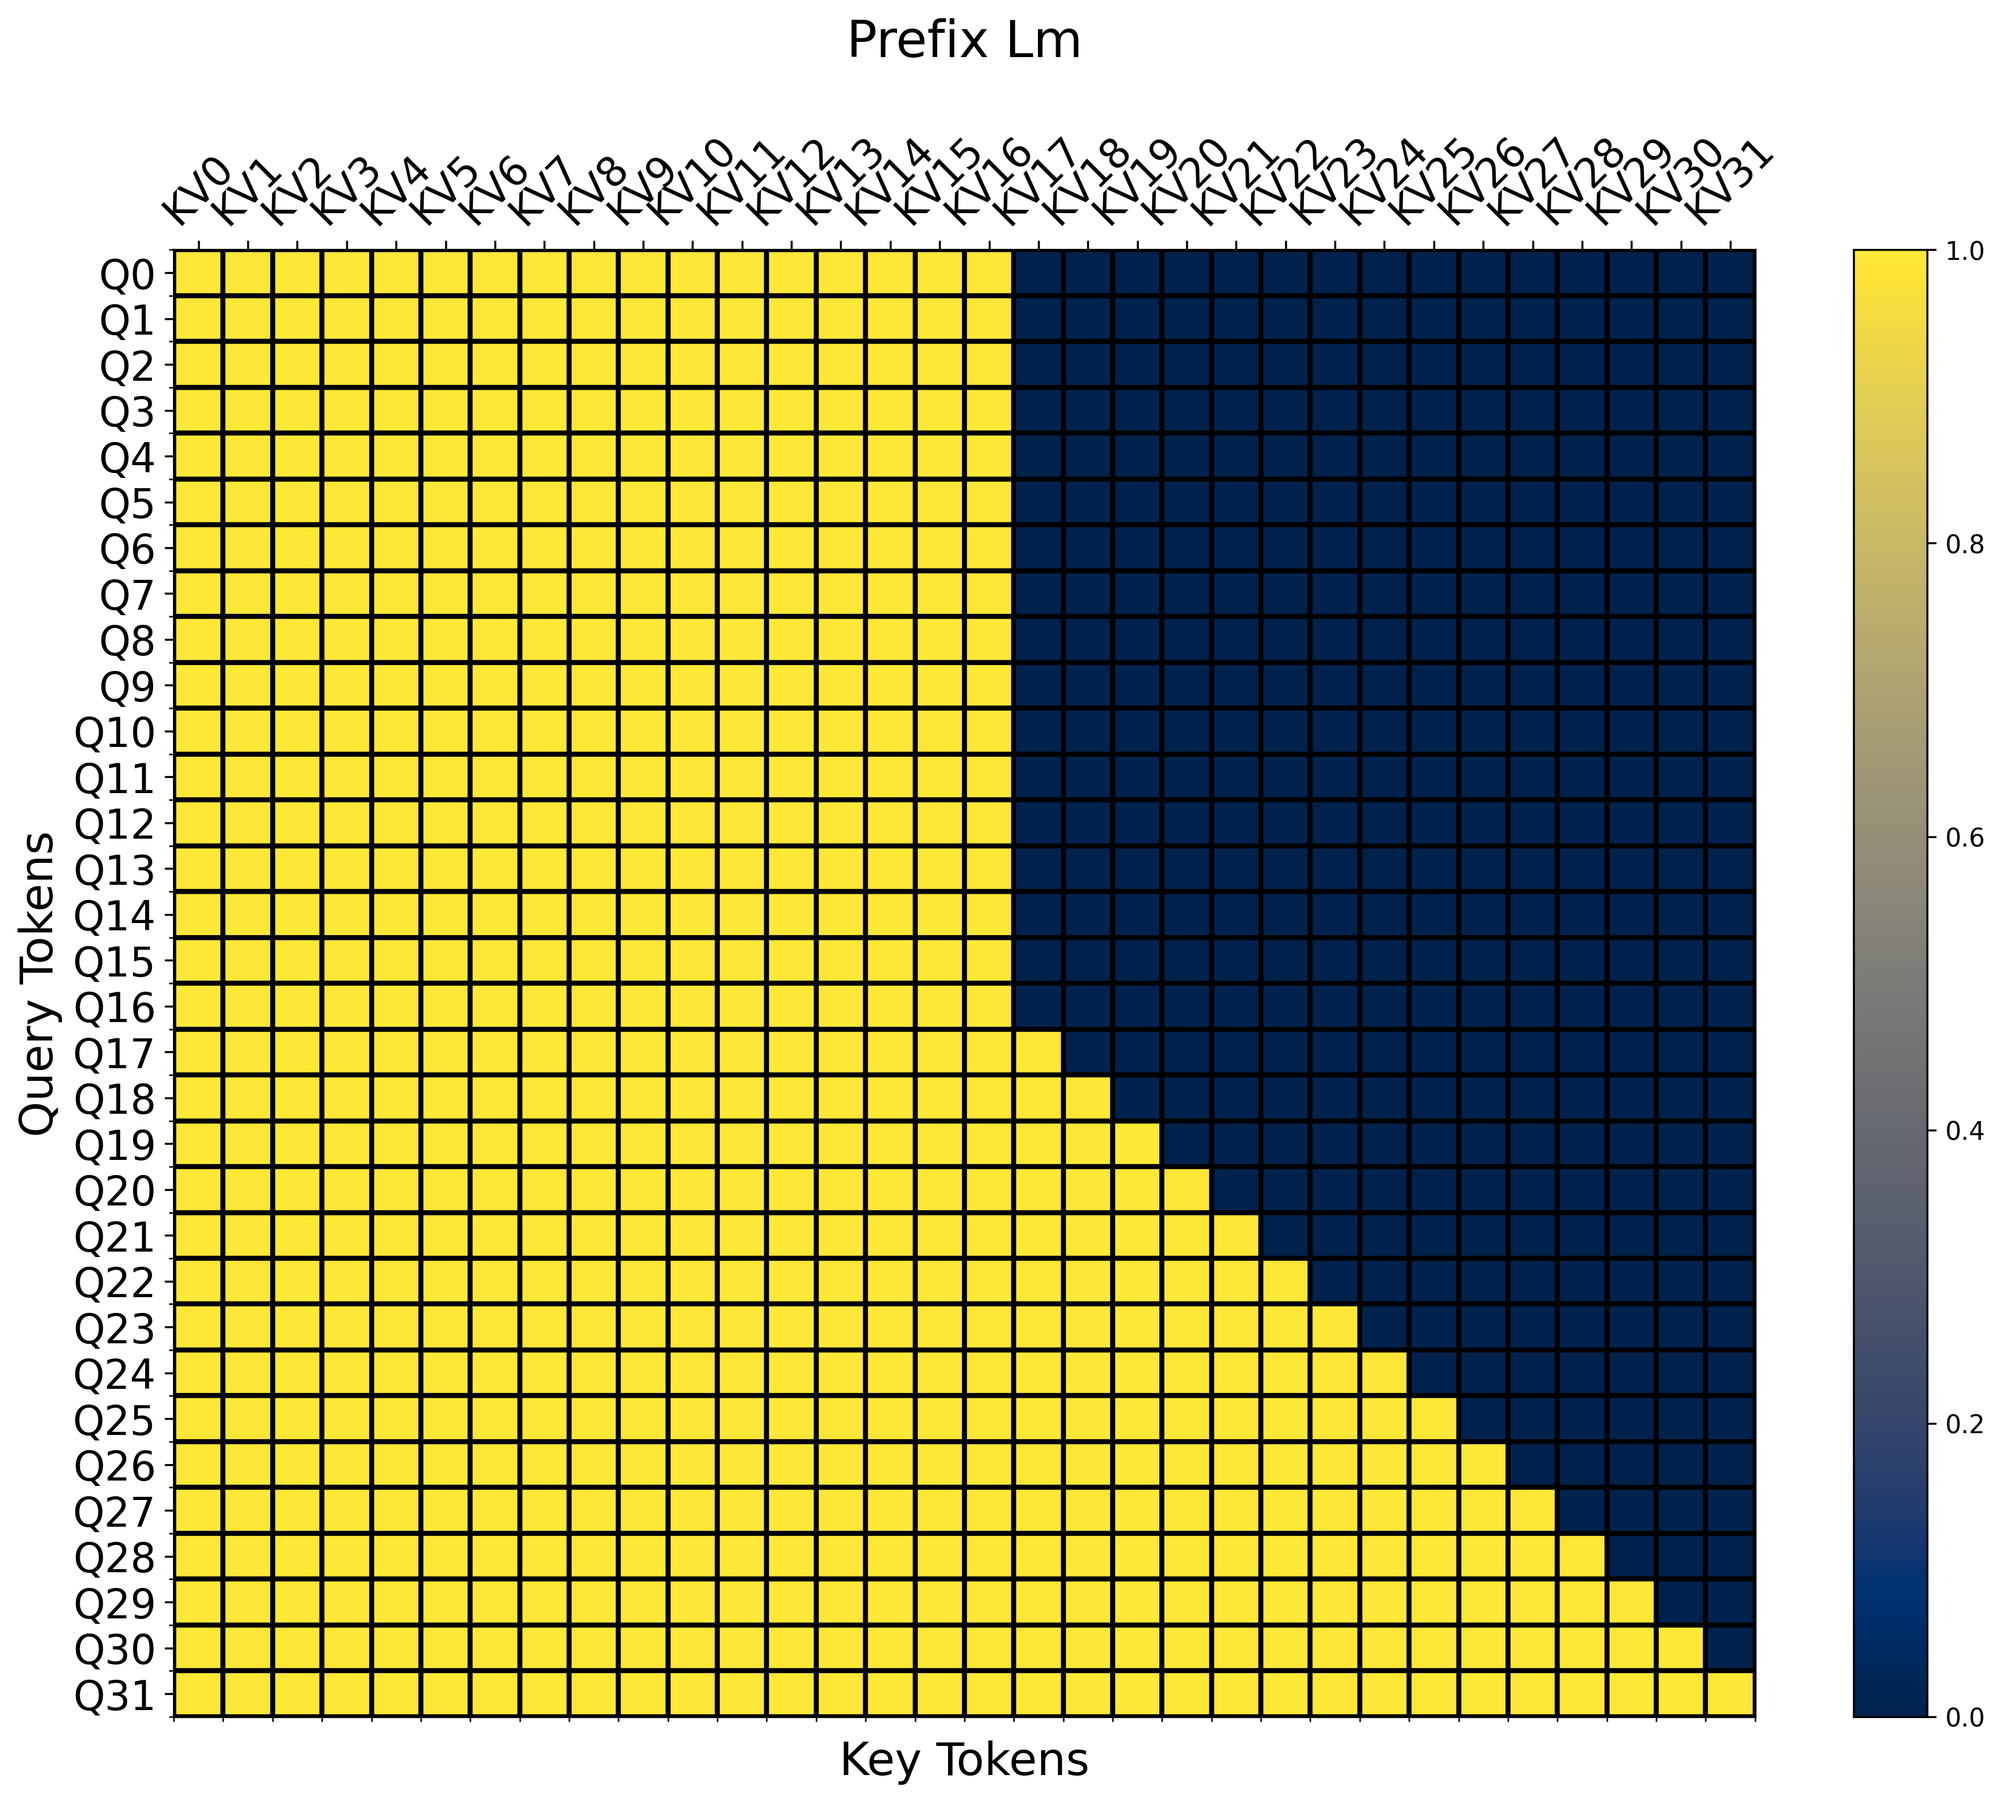
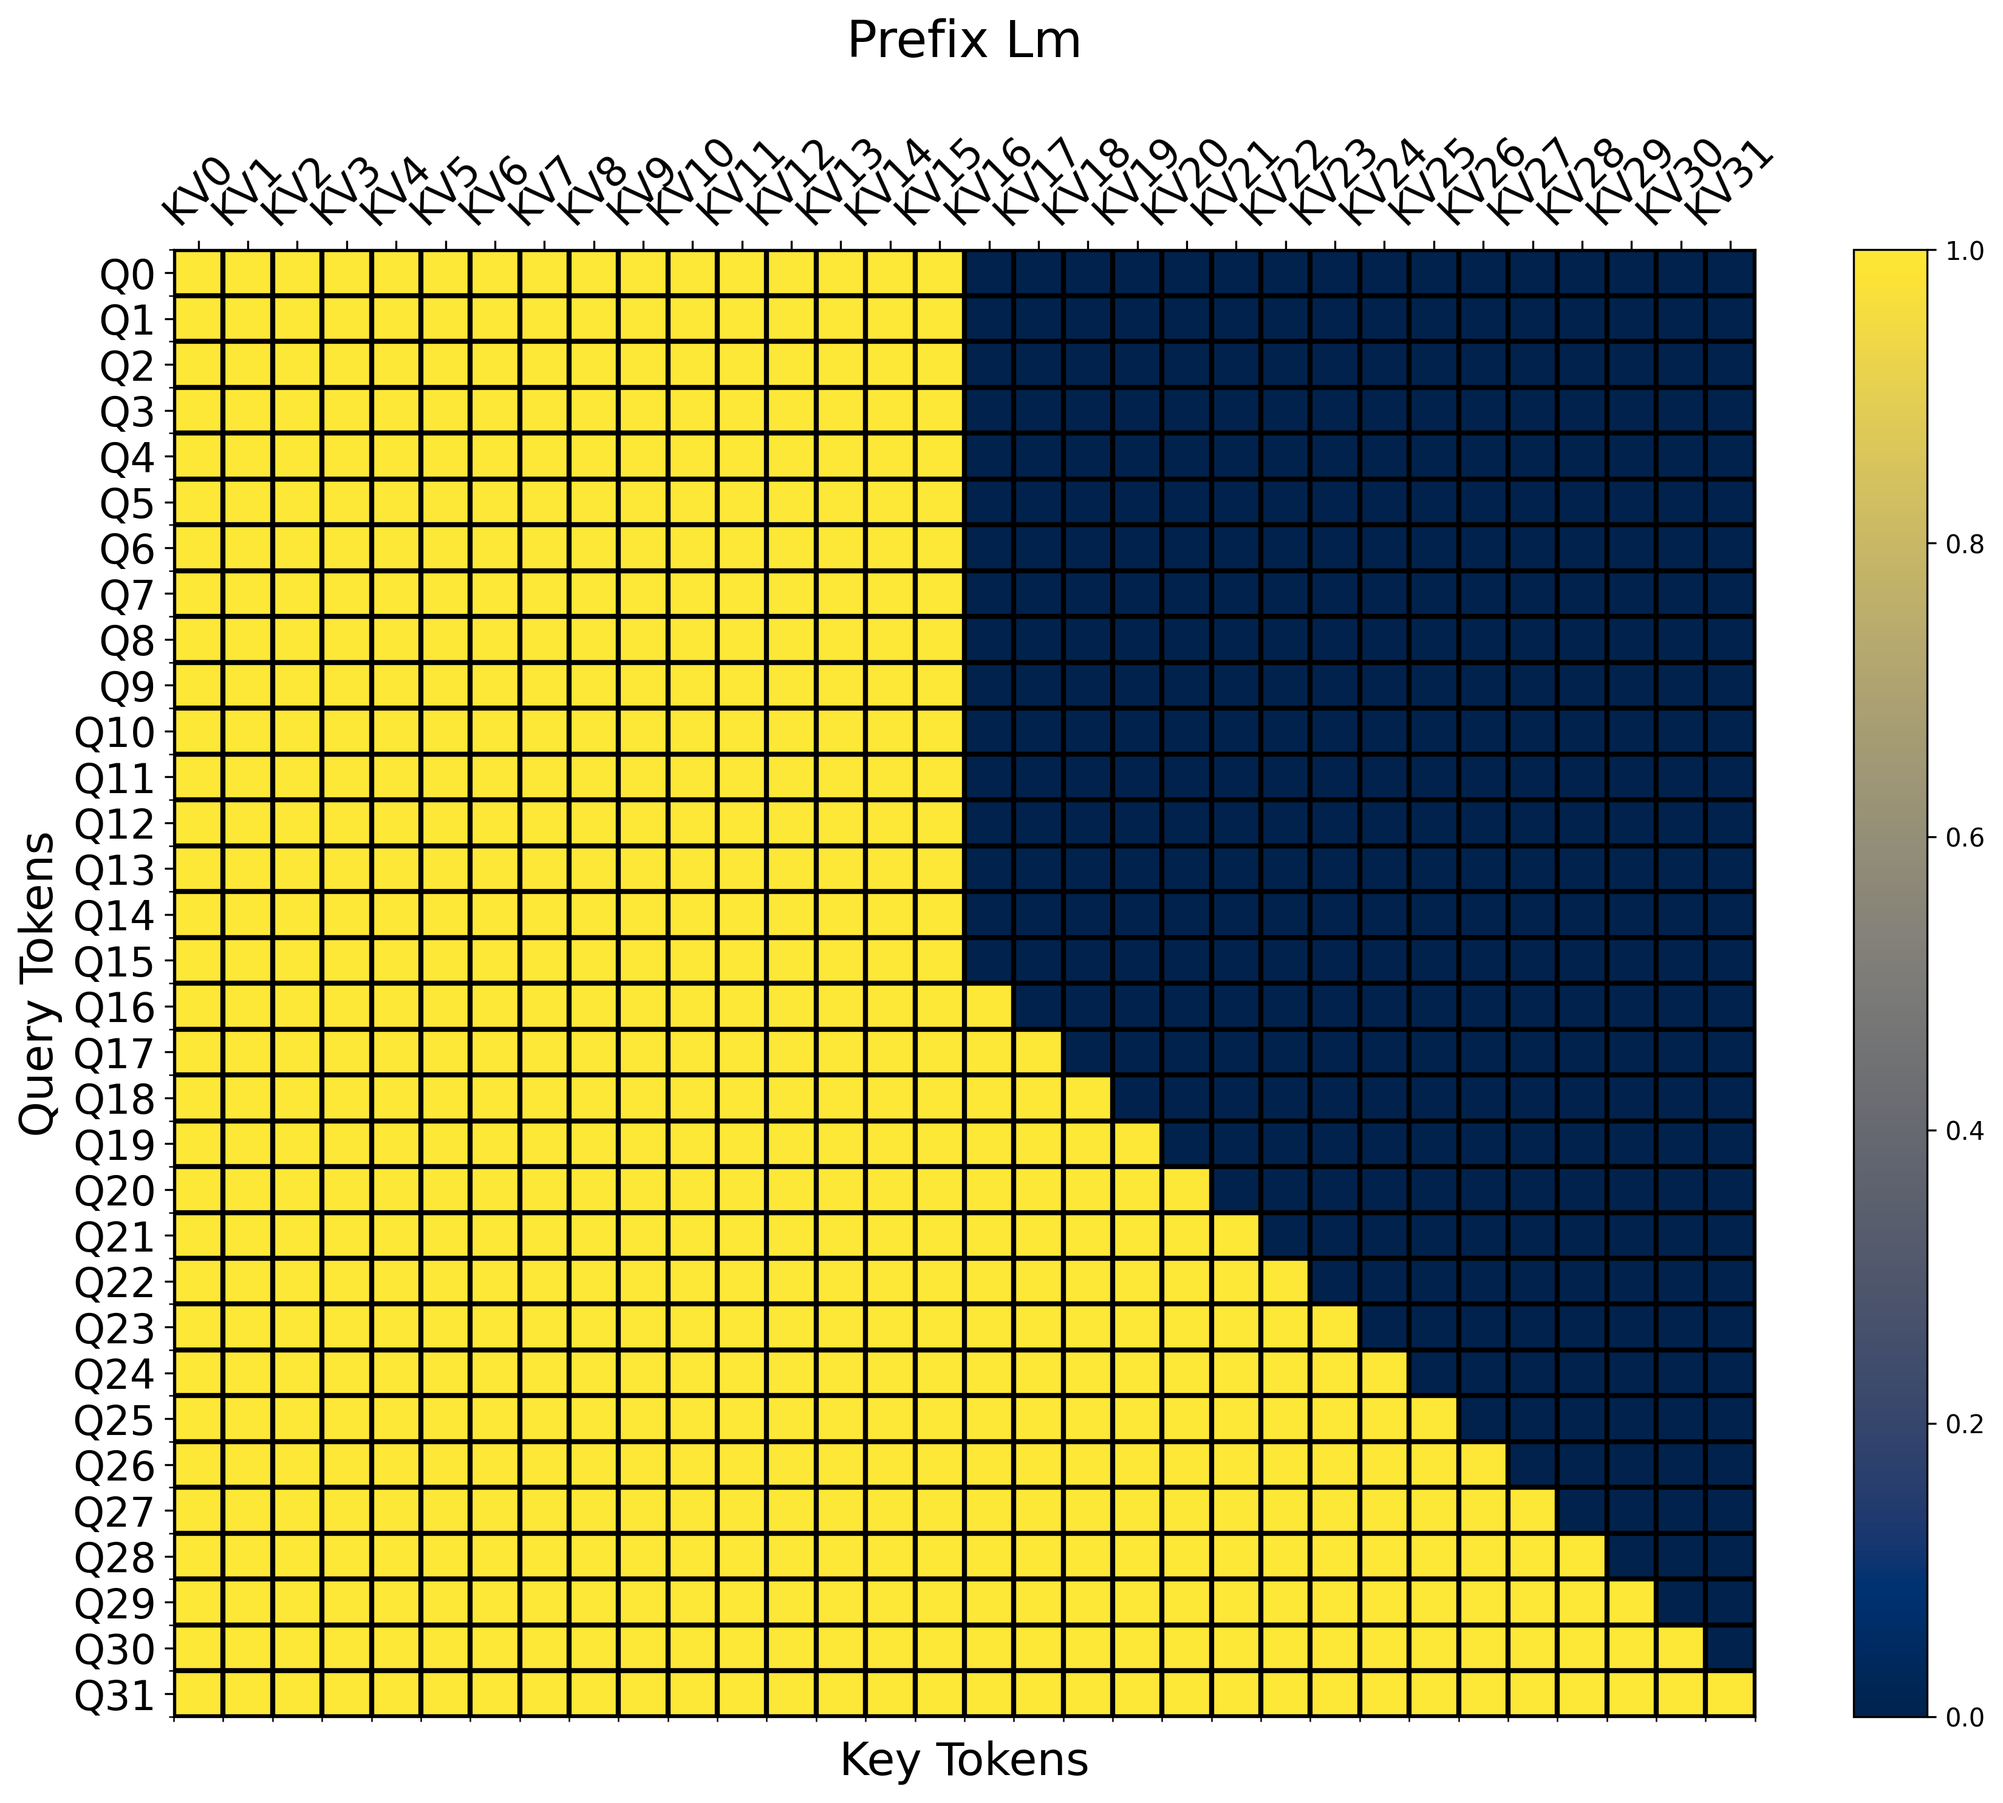
Fix prefixLM prefix offset mask condition

Changed region(s): [[0.4685, 0.1239, 0.5309, 0.5578]]

diff --git a/prefix_lm.py b/prefix_lm.py
@@ -20,7 +20,7 @@ PREFIX_LENGTH = 2048
 
 def prefix_lm_causal_mask(b, h, q_idx, kv_idx, prefix_length):
     causal_mask = (q_idx >= kv_idx)
-    prefix_mask = (kv_idx <= prefix_length)
+    prefix_mask = (kv_idx < prefix_length)
     return causal_mask | prefix_mask
 
 q, k, v = [torch.randn(B, H, S, D, requires_grad=True, dtype=torch.float16) for _ in range(3)]
